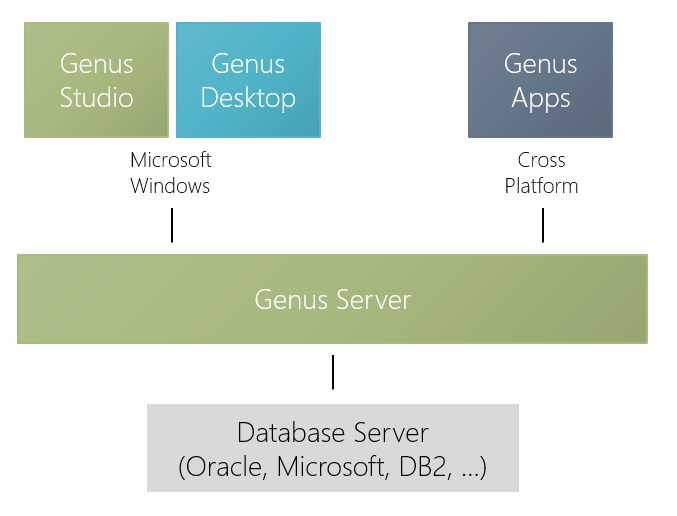
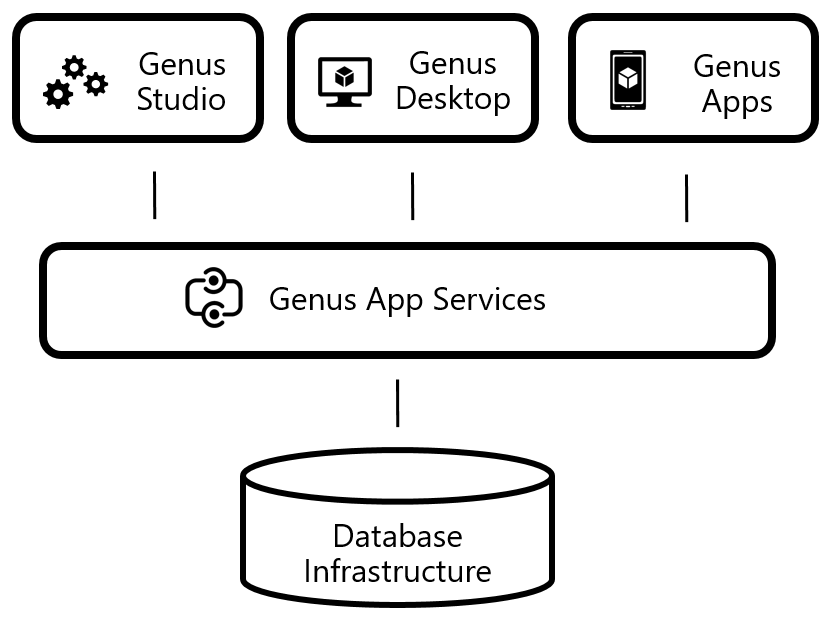
tete

diff --git a/genus-app-platform/genus-app-platform.tex b/genus-app-platform/genus-app-platform.tex
@@ -3,7 +3,9 @@
 
 \gap~is a platform for software development that aims to increase developer productivity and simplyfy change management through model-driven development \cite{Genus_AS2016-kt}. End user applications are modeled using a modeling tool instead of being programmed. This enhances collaboration between business and IT, reduces life cycle costs, and lets the application developers focus on business logic instead of implementation details. \gap~uses generic software concepts on a higher level of abstraction than regular programming languages that are precise and non-ambigous \cite{noauthor_undated-qy}. These concepts, and the underlying implementation, have been refined and improved through years of trial and error on real customer use cases. The model contains enough detail to let \gap~run the application.
 
-\gap~spans over three layers of model-driven development: The development of the platform itself is \textit{method engineering}, expert users using the modelling tool work on the \textit{information system development} layer, and the end users are in the \textit{information system} layer.
+\gap aims to be a "no code", high-productivity tool.
+
+Like most tools for model-driven engineering, \gap~spans over three layers of model-driven development: The development of the platform itself is \textit{method engineering}, expert users using the modelling tool work on the \textit{information system development} layer, and the end users are in the \textit{information system} layer.
 
 
 \section{Components and Architecture}
@@ -13,11 +15,11 @@ A system developed with \gap~consists of four major components, as seen in Figur
 
 \paragraph{Database Server}
 \label{par:Database Server}
-\gap~stores both the application models and the data for these models in one or more database servers. The platform can extend existing systems by building on top of existing database relations used in other applications, or define a completely new set tables for a new application. Since \gap~handles all integrety checks, validation rules, triggers, duplicates, and foreign keys, these constraints do not need to be defined at the database layer. \genus~has developed adapters for most major database vendors, including \pn{Oracle Database}, \pn{Microsoft SQL Server}, \pn{IBM DB2}, and \pn{MySQL}. 
+\gap~stores both the application models and the data for these models in one or more database servers. The platform can extend existing systems by building on top of existing database relations used in other applications, or define a completely new set tables for a new application. Since \gap~handles all integrety checks, validation rules, triggers, duplicates, and foreign keys, these constraints do not need to be defined at the database layer. \genus~has developed adapters, or object relational models, for most major database vendors, including \pn{Oracle Database}, \pn{Microsoft SQL Server}, \pn{IBM DB2}, and \pn{MySQL}. In addition to the traditional relational database providers, \gap~supports NoSQL-databases, REST-services and other APIs. The main point is that it is somewhere the data is persisted.
 
 \paragraph{Genus App Services}
 \label{par:Genus App Services}
-\pn{Genus App Services} is the server back-end in \gap. It facilitates communication between the client and the database server by multiplexing on application model, different data sets, and language \todo{Ønsker å fjerne språk, irrelevant for oppgaven}. It also handles authentication and session management. For simplicity and scalability, all \pn{Genus App Services} instances are stateless, which means that even though caching is used to improve performance, all servers may handle all responses. 
+\pn{Genus App Services} is the server back-end in \gap. It facilitates communication between the client and the database server by multiplexing on application model and different data sets. It also handles authentication and session management. For simplicity and scalability, all \pn{Genus App Services} instances are stateless, which means that even though caching is used to improve performance, all servers may handle all responses. \pn{Genus App Services} is not a single server instance, it can be spread across various nodes, and each node can provide different services. Objects deployed to a node group is processed by any node within that group which provides the requested app service for a give data set.
 
 \paragraph{Genus Studio}
 \label{par:Genus Studio}
@@ -34,12 +36,18 @@ In this section we study how an application is developed in \gap~using \pn{Genus
 \subsection{Data Layer}
 \label{sub:Data Layer}
 \afigure{img/gap-data-layer.png}{The data layer in \gap. There is built-in security in the framework, in addition to integrity, data validation, and calculation. Courtesy of \cite{Genus_AS2016-kt}.}{fig:gap-data-layer}{0.65}
-In Figure \ref{fig:gap-data-layer}, we see the \gap~data layer. The data layer in an application consists of classes and properties, hierarchies (inheritance) and connections (relations). Schema is \todo{Hva er et schema?}... Each time some data is modified, it is checked for integrety and validity, and new calculations are made for formulas. In addition, events and rules is supported. The data layer is protected by security functionality that limits the access on certain objects or certain properties. The data layer with is modelled in a class diagram, which we will discuss in greater detail in Section \ref{sec:Concepts}.
+In Figure \ref{fig:gap-data-layer}, we see the \gap~data layer. The data layer in an application consists of classes and properties, hierarchies (inheritance) and connections (object class relationships). Schema represents how the object model is represented when exposed through an API, much like an XML schema. Schemas is primarily used to create and consume SOAP based web services that requires XML formatted messages. Each time some data is modified, it is checked for integrety and validity, and new calculations are made for formulas. In addition, events and rules is supported. The data layer is protected by security functionality that limits the access on certain objects or certain properties. The data layer with is modelled in a class diagram, which we will discuss in greater detail in Section \ref{sec:Concepts}.
+
+Hierachies and connections works much like foreign keys and relations in a traditional database; it describes how data is connected.
+
+This layer, as well as storing data, defines how and on which format data is persisted in the various database and web service backends.
 
 \subsection{Logic Layer}
 \label{sub:Logic Layer}
 \afigure{img/gap-logic-layer.png}{Courtesy of \cite{Genus_AS2016-kt}.}{fig:gap-logic-layer}{1.0}
-The main component in the logic layer is \textit{Action Orchestration}, where the logic is defined, or orchestrated, through programming launguage-like constructs, such as loops, ifs, and exceptions. There is a number of different actions, including object create, object delete, object modification, file creation, and IO operations like writing to files and consuming REST services. The Web Service \todo{Hva gjør Web Service i figuren?}... A task, defined by an action orchestration, can be run manually, but is more commonly triggered by elements in the user interface level, like a button press, or by other events like recurring events triggered by a timer. The logic layer is depicted in Figure \ref{fig:gap-logic-layer}.
+The main component in the logic layer is \textit{Action Orchestration}, where the logic is defined, or orchestrated, through programming launguage-like constructs, such as loops, ifs, and exceptions. There is a number of different actions, including object create, object delete, object modification, file creation, and IO operations like writing to files and consuming REST services. These building blocks are referred to ass \textit{effects}, and the process of assembling these building blocks is refered to as \textit{action orchestration}. The Web Service is included in the figure because web services can be interacted with in an effect. A task, defined by an action orchestration, can be run manually, but is more commonly triggered by elements in the user interface level, like a button press, or by other events like recurring events triggered by a timer. The logic layer is depicted in Figure \ref{fig:gap-logic-layer}.
+
+
 
 %For our research, the most important parts of the logic layer is the object fetching and manipulation, as well as the data aggregate generation. We study this later in the thesis.
 
@@ -74,17 +82,19 @@ A data mart defines a data extract that are used by \pn{Genus Discovery}, the in
 
 Besides from the field and data source filtering, a data mart looks very much like like an object diagram, like seen in Figure \ref{fig:gap-data-mart}. Still, there is one important distinction: A data mart must conform to a snowflake schema, that is there can only exist one path through the class diagram. For instance, in Figure \ref{fig:gap-class-diagram}, both customer and suppliers refer to the nation table. In a data mart, there would two nation entitities, a \texttt{CUSTOMER\_NATION} and a \texttt{SUPPLIER\_NATION} table.
 
-\subsection{Genus Discovery}
-\label{sub:Genus Discovery}
+\subsection{Analysis}
+\label{sub:Analysis}
 \missingfigure{Genus discovery screenshot}
-\pn{Genus Discovery} is the built-in \bd~solution in the platform. It is a graphical user interface component that builds on a data mart. Like most similar products, \pn{Genus Discovery} does not rely on aggregated data such that the user can follow his "information scent" and click his way through the data. An example user interface is seen in Figure \ref{fig:genus-discovery}.
+\pn{Analysis} is the built-in \bd~solution in the platform, and is ofter referred to as \pn{Genus Discovery}. It is a graphical user interface component that builds on a data mart. Like most similar products, \pn{Genus Discovery} does not rely on aggregated data such that the user can follow his "information scent" and click his way through the data. An example user interface is seen in Figure \ref{fig:genus-discovery}.
 
-\subsection{Task}
-\label{sub:Task}
+\subsection{Actions}
+\label{sub:Actions}
 \afigure{img/gap-task.png}{A task definition in \gap. A task may read from and to data sources, enumerate using for or while loops, consume services, import, export, and more.}{fig:gap-task}{1.0}
-A task in \gap~is similar to a procedure or a function in a programming language, and is defined at the logic layer. A task might be triggered manually, or through user interaction in the user interface, or by agents that trigger tasks periodically.
+An action in \gap~is similar to a procedure or a function in a programming language, and is defined at the logic layer. A task might be triggered manually, or through user interaction in the user interface, or by agents that trigger tasks periodically.
 
 As seen in Figure \ref{fig:gap-task}, the users might specify specific steps that loads data sources, filters, modifies attributes, imports, exports, and more.
+
+\todo{Jobbe litt med tilbakemeldingene til Petter her}
 
 \section{Source Code and Classes}
 \label{sec:Source Code and Classes}
@@ -109,9 +119,9 @@ The \cn{CompositionDescriptor} class describes a composition, and represents an 
 The \cn{CompositionObject} class represents object instances for object classes. Each object has a reference to its composition descriptor, and in addition, there are other variables that store object state, validation errors, formatting, and more. The properties and data belonging to a composition object instance is stored in a \cn{CompositionObjectValueCollection} class, which we study in Section \ref{sub:CompositionObjectValueCollection}.
 
 
-\subsection{DataDescriptor}
+\subsection{FieldDescriptor}
 \label{sub:DataDescriptor}
-The \cn{DataDescriptor} class describes an attribute in a composition, which is the object class property we studied in Section \ref{sub:Object Class Properties}. It holds all revelant data about a property, mainly type and representation, but also constraints and formatting rules. Instances of the \cn{DataDescriptor} class exist in the information system development layer.
+The \cn{FieldDescriptor} class describes an attribute in a composition, which is the object class property we studied in Section \ref{sub:Object Class Properties}. It holds all revelant data about a property, mainly type and representation, but also constraints and formatting rules. Instances of the \cn{DataDescriptor} class exist in the information system development layer.
 
 \subsection{CompositionObjectValueCollection}
 \label{sub:CompositionObjectValueCollection}
@@ -128,7 +138,7 @@ The \cn{CompositionObjectValueCollection} class holds the data for composition o
         \hline
         \cn{CompositionObject} & Instance of Object Class & Information system layer \\
         \hline
-        \cn{DataDescriptor} & Object Class Property & Information system development layer \\
+        \cn{FieldDescriptor} & Object Class Property & Information system development layer \\
         \hline
         \cn{CompositionObject- ValueCollection} & Values of Object Class Property & Information system layer
     \end{tabularx}
@@ -164,7 +174,7 @@ This results in 32,000,018 pointers, which is roughly 244mb on a 64-bit architec
 
 \subsection{Ineficcient Data Access and Poor Memory Locality}
 \label{sub:Ineficcient Data Access and Poor Memory Locality}
-Commonly in \gap, there are operations that perform calculations or evaluate predicates on a large number of values. These operations access many values in tight loops, and it is not uncommon they scan all values for a given data descriptor in a data source. For instance, an operation that sums up all numbers for an object property in a data source would for every iteration do the following:
+Sometimes in \gap, there are operations that perform calculations or evaluate predicates on a large number of values. These operations access many values in tight loops, and it is not uncommon they scan all values for a given data descriptor in a data source. For instance, an operation that sums up all numbers for an object property in a data source would for every iteration do the following:
 \begin{itemize}
     \item The \cn{CompositionObjectValueCollection} is scanned linearly for the correct data descriptor.
     \item The corresponding \cn{GValue} is found, and the accessor method (i.e. \fn{GetAsInteger}) is looked up in the dispatch table.
